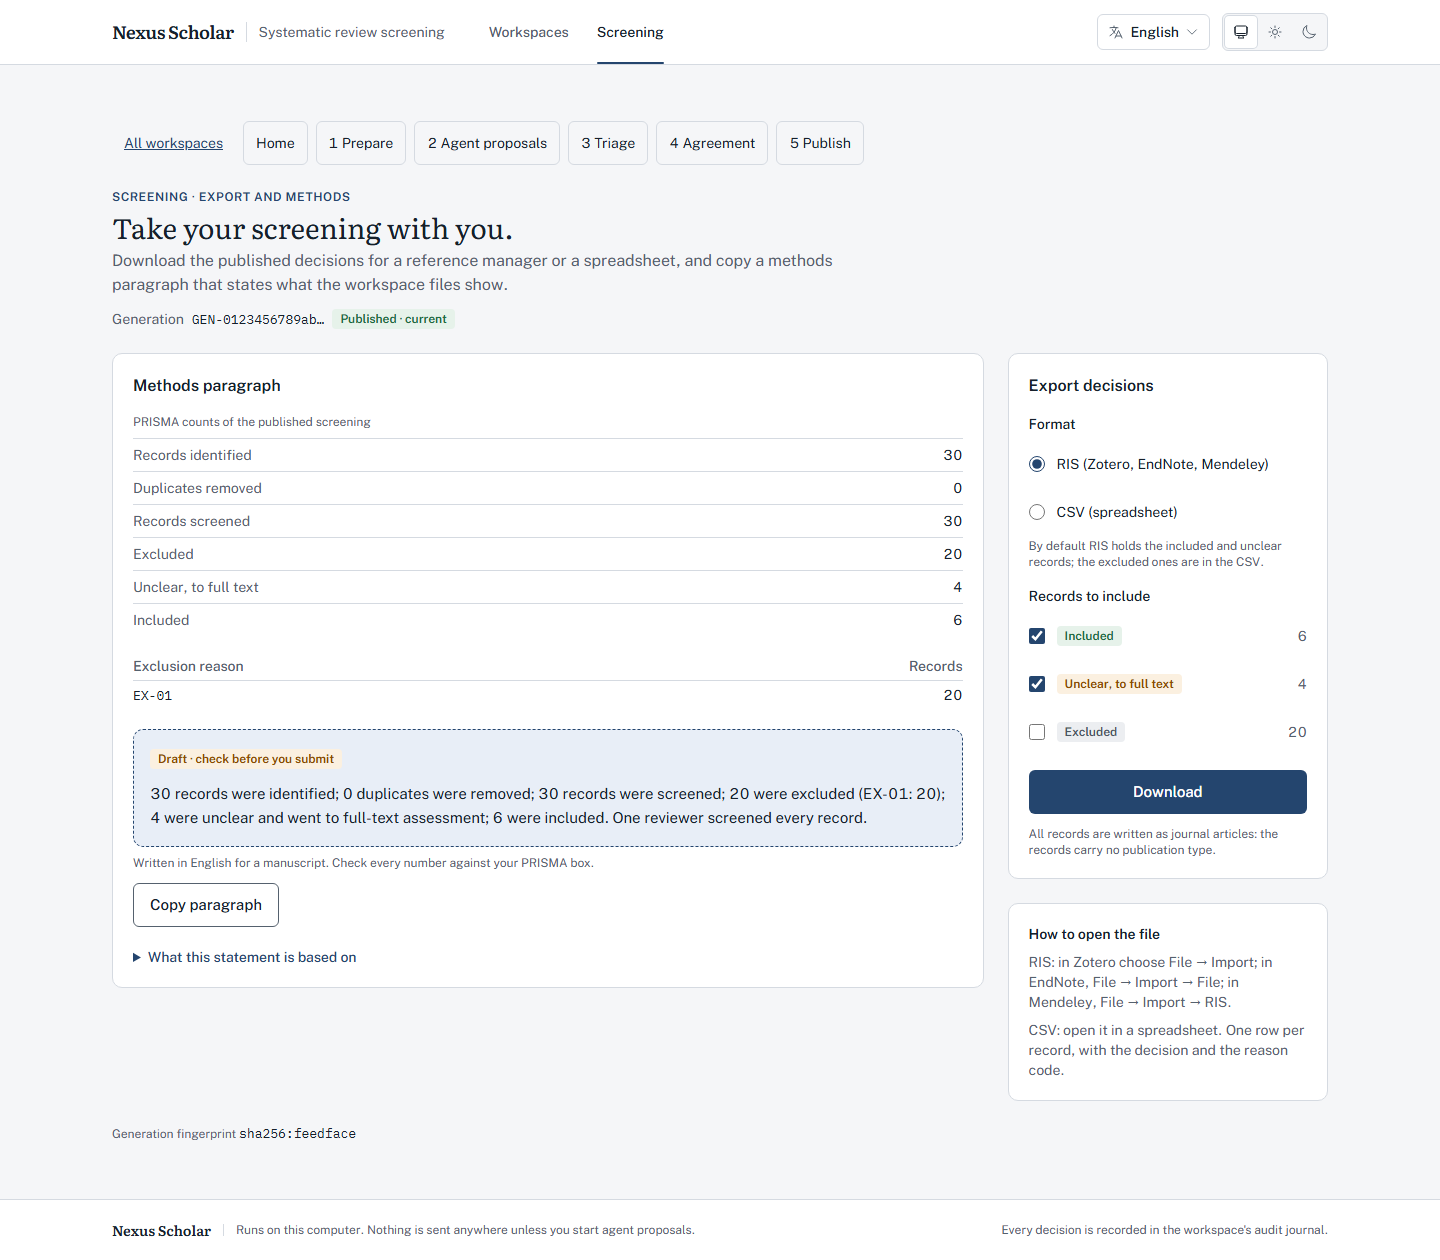
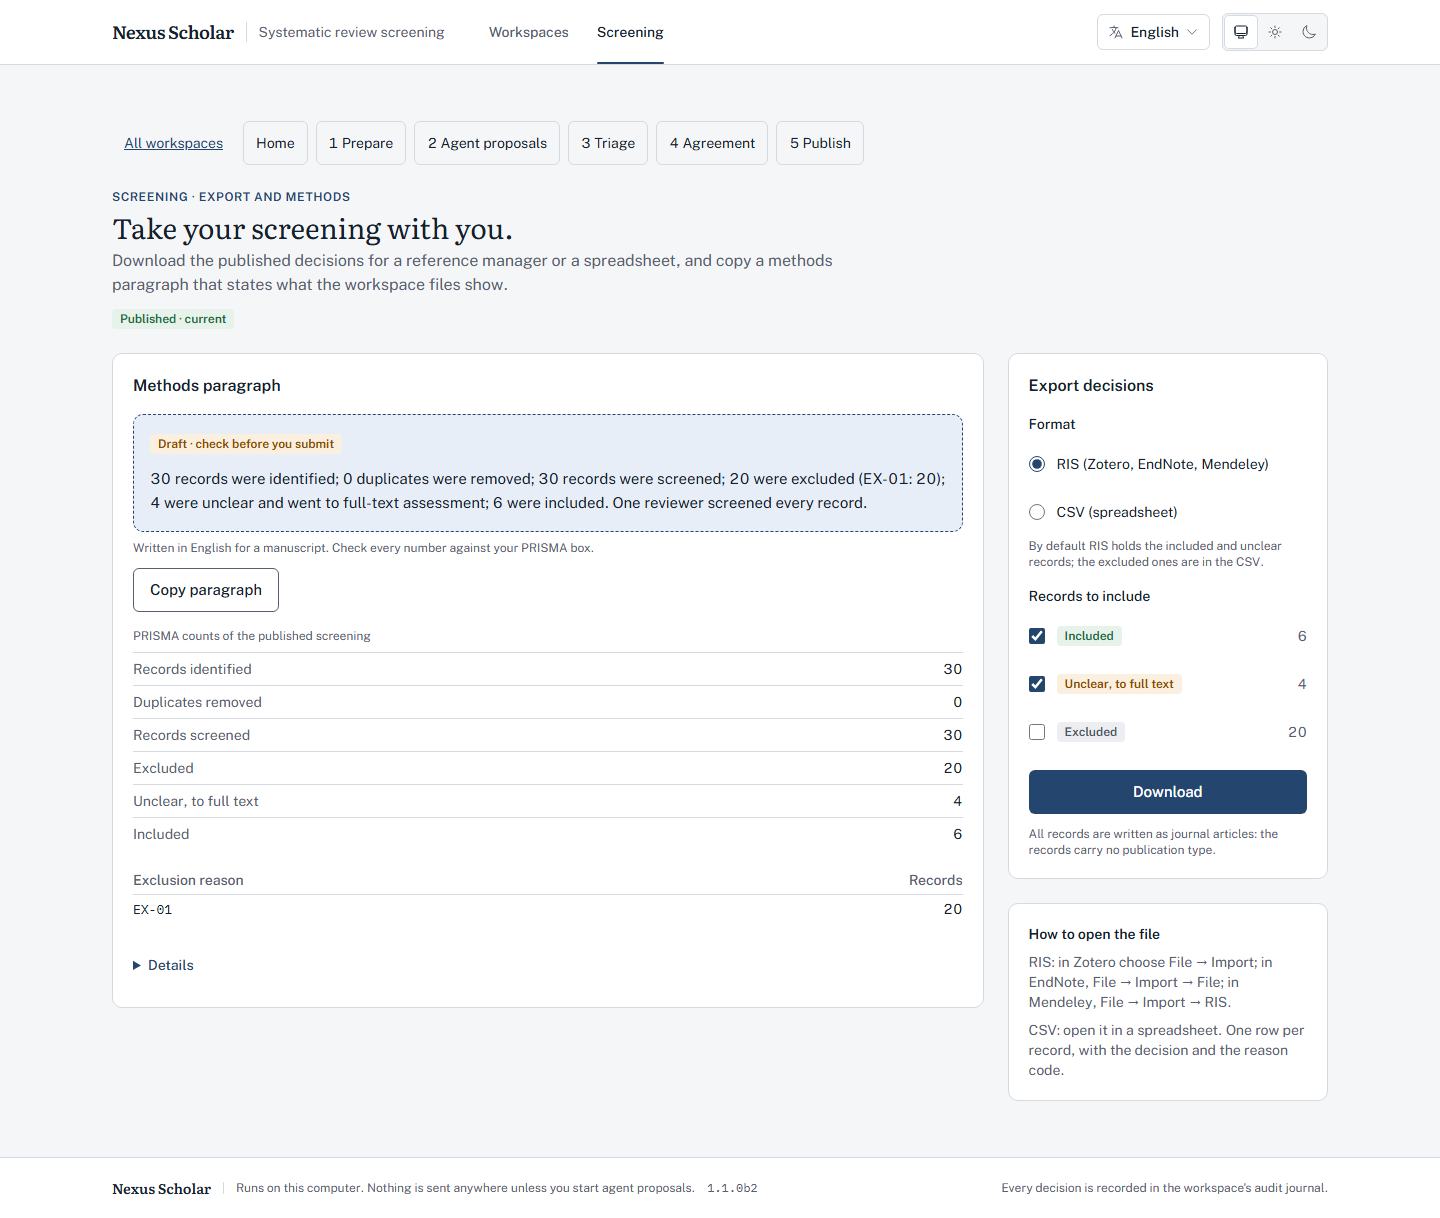
docs(m6-beta): part 2 closure gate and re-review recorded; screenshots of the new screens

diff --git a/docs/roadmap/milestones/M6-beta.md b/docs/roadmap/milestones/M6-beta.md
@@ -1,5 +1,5 @@
 # M6-beta Beta UX: fewer clicks, details on demand, four trust fixes
-Branch: part 1 `dev/m6/beta-ux` (merged, PR #197, tagged `v1.1.0b1`), part 2 `dev/m6/beta-ui` · Lane: **RELEASE** (raised at the part-1 review, 2026-11-07: publication behaviour, artifact identity, public API and CLI; `test_gate_policy.md` §lanes) · Status: IN PROGRESS, part 2 (the UI half, version `1.1.0b2`) under review · Written: 2026-11-06 · Started: 2026-11-07
+Branch: part 1 `dev/m6/beta-ux` (merged, PR #197, tagged `v1.1.0b1`), part 2 `dev/m6/beta-ui` · Lane: **RELEASE** (raised at the part-1 review, 2026-11-07: publication behaviour, artifact identity, public API and CLI; `test_gate_policy.md` §lanes) · Status: part 2 (the UI half, version `1.1.0b2`) READY FOR PR; open after the tag: the researcher's timed walk and the five testers · Written: 2026-11-06 · Started: 2026-11-07
 
 Why: the researcher's direction on 2026-11-06. The product goes to beta testers next; the workspaces are not expected to carry the PhD review. Testers will spend almost all their time in triage, and the researcher's own run found "a lot of clicks and scrolling" and provenance everywhere. The [full review](../../assessment/full-review-2026-11-06.md) (sections 2 and 3) lists the defects; this milestone takes the ones a tester meets and leaves the rest parked. Source of the rule applied throughout: the brand book, "plain words first, raw value underneath", read as **the raw value is one disclosure away, never inline**.
 
@@ -103,9 +103,13 @@ Plan: a new §6 row is added to [`production-plan.md`](../production-plan.md) at
 | closure (RELEASE, part 1) | `3ff7e7a` | `select_test_gate.py --changed main --stage closure`: `git diff --check main...HEAD`; `ruff check scripts/`; `ruff check src/ --select F821,F811,F823,F632,F7,B023,B006,E9`; contract baseline, schemas and two-study fixture `--check`; skills bundle and selector `--check`; `pytest -q -n auto`; `uv build --wheel`; `tsc`; `vitest`; `build`; `test:browser` | all pass: pytest 4406 passed, 15 skipped, 0 failed; wheel `nexus_scholar-1.1.0b1-py3-none-any.whl`; vitest 242/242; Playwright 155 passed, 13 skipped, 0 failed (locale-routing N2 passed in this run) | pytest about 20 min, Playwright 3.0 min |
 | re-review (part 1) | `3ff7e7a` | `milestone-reviewer` | APPROVE, lane RELEASE confirmed; all five findings and both follow-ups fixed, no regression; P3 follow-ups under Deferred | — |
 | review (part 2) | `acc4046` | `milestone-reviewer` | CHANGES: 5 P2, 10 P3, all addressed in the next commit or deferred below. (1) the hand-off flashed "All 30 records are decided" before the queue answered; (2) with drafts and the default setting, N after the last record wrapped onto decided records instead of reaching the hand-off; (3) focus after advancing was lost (focused before the new title was committed); (4) "After I decide" was not disabled while drafts are shown; (5) Details summaries were about 16-20 px with no focus ring. Each has a test now (`triage review fixes`, `prepare.advance-setting`, `details-rule.test.ts`, a Playwright focus check) | — |
+| closure (RELEASE, part 2) | `649f4b1` | `select_test_gate.py --changed main --stage closure` (as part 1) | all pass: pytest 4407 passed, 15 skipped, 0 failed; wheel `nexus_scholar-1.1.0b2-py3-none-any.whl`; vitest 267/267; build clean; Playwright 173 passed, 13 skipped, 0 failed (light and dark); contract baseline, schemas and two-study fixture current | pytest about 20 min, Playwright 3.0 min |
+| re-review (part 2) | `649f4b1` | `milestone-reviewer` | APPROVE: all five P2s fixed with tests, the P3s fixed or deferred; two new P3s deferred below | — |
 
 ## Deferred
 - From the part-2 review (P3, not fixed here):
+  - The binding banner in triage is a `<p>` that contains a `<details>`: invalid nesting, which React warns about in development. It should be a `<div>`, as the refusal banner is.
+  - If opening the next record fails, the "focus the next title" flag stays set, and a later J/K focuses that title. Reset it in `open()`'s catch.
   - One Details per batch row on Home and Publish, not one per card (rule 12, rule 1). Each row's file name sits beside its own approval controls.
   - The `<details>` blocks are written inline; there is no shared component in `ui/base.tsx`. `tests/details-rule.test.ts` checks rule 3 (44 px and a focus ring) on every summary instead.
   - Triage labels its Details with its own copy key (same words as `DETAILS_LABEL`).
